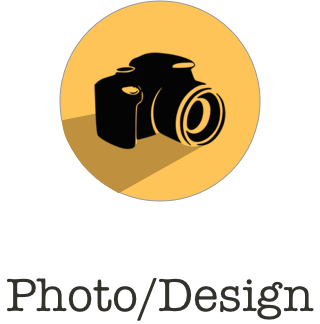
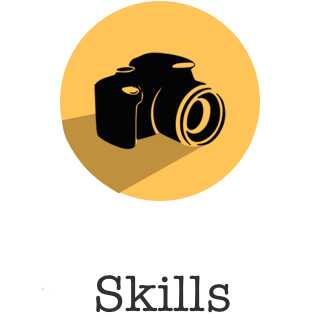
update

diff --git a/index.html b/index.html
@@ -3,10 +3,11 @@
 <head>
   <meta charset="utf-8">
   <title>David Lee | Web Developer</title>
+  <link href='https://fonts.googleapis.com/css?family=Patua+One' rel='stylesheet' type='text/css'>
   <link href='https://fonts.googleapis.com/css?family=VT323' rel='stylesheet' type='text/css'>
-  <link rel="stylesheet" href="https://maxcdn.bootstrapcdn.com/bootstrap/3.3.6/css/bootstrap.min.css" integrity="sha384-1q8mTJOASx8j1Au+a5WDVnPi2lkFfwwEAa8hDDdjZlpLegxhjVME1fgjWPGmkzs7" crossorigin="anonymous">
-  <link rel="stylesheet" href="https://maxcdn.bootstrapcdn.com/font-awesome/4.5.0/css/font-awesome.min.css">
   <link href='https://fonts.googleapis.com/css?family=Roboto:300' rel='stylesheet' type='text/css'>
+  <link href='https://fonts.googleapis.com/css?family=Roboto:300' rel='stylesheet' type='text/css'>
+  <link rel="stylesheet" href="https://maxcdn.bootstrapcdn.com/bootstrap/3.3.6/css/bootstrap.min.css" integrity="sha384-1q8mTJOASx8j1Au+a5WDVnPi2lkFfwwEAa8hDDdjZlpLegxhjVME1fgjWPGmkzs7" crossorigin="anonymous">
   <link rel="stylesheet" href="./public/styles.css">
 </head>
 <body>
@@ -20,6 +21,9 @@
     <li id="nav-right"><a class="nav" id="a-link" href="#"><img src="./public/images/gmail.png" id="gmail"></a></li>
   </ul>
 </nav>
+
+<img src="./public/images/lightbulb.png" id="lightbulb">
+
 <!-- Intro Section One -->
 <section class="section-one section-class-name">
 
@@ -34,12 +38,87 @@
     <img src="./public/images/name.png" id="name">
   </div>
 
+  <div class="about-section">
+    <img src="./public/images/profile.png" id="pic">
+    <h2 id="intro"> Hi! My name is David!</h2>
+    <p id="about-me"> I'm an enthusiastic web developer, passionate about learning new technologies and eating food!</p>
+  </div>
+
+  <div class="photo-section">
+
+    <h2 id="skills"> Skills </h2>
+
+    <table class="language" id="skill-table">
+      <tr>
+        <td id="skill-type">Languages</td>
+      </tr>
+      <tr>
+        <td id="skill-results">JavaScript | Ruby</td>
+      </tr>
+    </table>
+    <table class="front-end" id="skill-table">
+      <tr>
+        <td id="skill-type">Front-end</td>
+      </tr>
+      <tr>
+        <td id="skill-results"> HTML5 | CSS3 | jQuery | AngularJS</td>
+      </tr>
+    </table>
+    <table class="back-end" id="skill-table">
+      <tr>
+        <td id="skill-type">Back-end</td>
+      </tr>
+      <tr>
+        <td id="skill-results"> Node.js(Express) | Ruby on Rails | (No)SQL </td>
+      </tr>
+    </table>
+    <table class="graphic-tools" id="skill-table">
+      <tr>
+        <td id="skill-type">Graphic Tools</td>
+      </tr>
+      <tr>
+        <td id="skill-results"> Pixelmator | Sketch | Adobe Photoshop | Adobe Premiere </td>
+      </tr>
+    </table>
+
+  </div>
+
+  <div class="portfolio-section">
+    <img src="./public/images/profile.png" id="pic">
+    <h2 id="intro"> Hi! My name is David!</h2>
+    <p id="about-me"> I'm an enthusiastic web developer, passionate about learning new technologies and eating food!</p>
+  </div>
+
+  <div class="contact-section">
+    <img src="./public/images/profile.png" id="pic">
+    <h2 id="intro"> Hi! My name is David!</h2>
+    <p id="about-me"> I'm an enthusiastic web developer, passionate about learning new technologies and eating food!</p>
+  </div>
+
 </section>
+<!--
+<section class="section-rest">
+
+
+  <div class="about-section">
+    <span id="intro">
+      <h2> Hi! My name is David!</h2>
+      <p> I'm an enthusiastic web developer, passionate about learning new technologies and eating food!</p>
+    </span>
+  </div>
+  <div class="photo-section">
+  </div>
+  <div class="portfolio-section">
+  </div>
+  <div class="contact-section">
+  </div>
+
+
+</section> -->
 
 
 <script src="https://ajax.googleapis.com/ajax/libs/jquery/2.2.0/jquery.min.js"></script>
-  <script src="./public/Scrollify/jquery.scrollify.js" charset="utf-8"></script>
-  <script src="./public/scripts.js" charset="utf-8"></script>
+<script type="text/javascript" src="./public/scripts.js"></script>
 
 </body>
 </html>

diff --git a/public/styles.css b/public/styles.css
@@ -4,7 +4,7 @@ body{
   padding: 0;
   width: 100%;
   height: 100%;
-  font-family: 'VT323', ;
+  font-family: 'Patua One', cursive;
 }
 
 /* NAVIATION BAR */
@@ -13,7 +13,6 @@ body{
   margin: 0;
   padding: 0;
   background-color: rgba(18,18,18,.9);
-  border-bottom: 1px solid rgba(230,230,230,0.8);
   width: 100%;
   z-index: 5000;
   top: 0;
@@ -79,6 +78,13 @@ img#logo{
   padding-left: 30px;
 }
 
+#lightbulb{
+  position: absolute;
+  height: 120px;
+  right: 20px;
+  top: 60px;
+}
+
 /* SECTION ONE */
 .section-one{
   background-color: rga(252,252,252);
@@ -91,7 +97,6 @@ img#logo{
   background-size: cover;
   background-position: center;*/
 }
-
 
 .container{
   position: absolute;
@@ -125,4 +130,98 @@ img.icon{
 img#name{
   max-width: 200px;
   margin: 50px auto;
+}
+
+.about-section{
+  display: none;
+  position: absolute;
+  margin-top: 60px;
+  width: 100%;
+  height: 100%;
+  padding: 0;
+  background-color: #F73C64;
+  text-align: center;
+  overflow: auto;
+  color: white;
+  text-shadow: 2px 2px #D40B42;
+}
+
+#pic{
+  margin-top: 80px;
+  margin-bottom: 20px;
+  width: 20%;
+  min-width: 200px;
+}
+
+#intro{
+  font-size: 4em;
+
+}
+
+#about-me{
+  position: relative;
+  font-size: 2em;
+  width: 60%;
+  left: 20%;
+}
+
+.photo-section{
+  position: absolute;
+  margin-top: 60px;
+  width: 100%;
+  height: 100%;
+  padding: 0;
+  background-color: #FFDD5C;
+  text-align: center;
+  overflow: auto;
+  text-shadow: 2px 2px white;
+}
+
+#skills{
+  position: relative;
+  font-size: 5em;
+  width: 60%;
+  left: 20%;
+}
+
+#skill-table{
+  position: relative;
+  width: 60%;
+  left: 20%;
+  text-align: center;
+  margin: 20px 0;
+}
+
+#skill-type{
+  font-size: 2.3em;
+}
+
+#skill-results{
+  position: relative;
+  font-size: 25px;
+  top: 0;
+}
+
+.portfolio-section{
+  display: none;
+  position: absolute;
+  margin-top: 60px;
+  width: 100%;
+  height: 100%;
+  padding: 0;
+  background-color: yellow;
+  text-align: center;
+  overflow: auto;
+}
+
+.contact-section{
+  display: none;
+  position: absolute;
+  margin-top: 60px;
+  width: 100%;
+  height: 100%;
+  padding: 0;
+  background-color: yellow;
+  text-align: center;
+  overflow: auto;
 }

diff --git a/public/scripts.js b/public/scripts.js
@@ -1,18 +1,30 @@
 // Behaviors
 
-function sunHover(){
-  $('img#sun').animate({
-    top: "+10px"
-  }, 1000);
-  $('img#sun').animate({
-    top: "-10px"
-  }, 1000, function(){
-  sunHover();
-  });
-}
+// function expandAbout(){
+//   $('body').on('click', 'img#about', function(){
+//     $('.icon').css('opacity', '0');
+//     $('.expand-icon').css('opacity', '0');
+//     $('img#about').css('opacity', '1');
+//     $('#pink-circle').css('opacity', '1');
+//     $('.expand-icon').animate({
+//       width: "100%",
+//       height: "100%",
+//       left: "-50%",
+//       top: "-50%",
+//     }, 1000, function(){
+//       $('.expand-icon').css({'width': '100%','height': '100%','left': '0','top': '0', 'border-radius': '0'});
+//     });
+//   });
+// };
+
+/*div.expand-icon{
+  width: 100%;
+  height: 100%;
+  top: 60px;
+}*/
 
 $(function(){
-    sunHover();
+
+
+
 });
-
-
